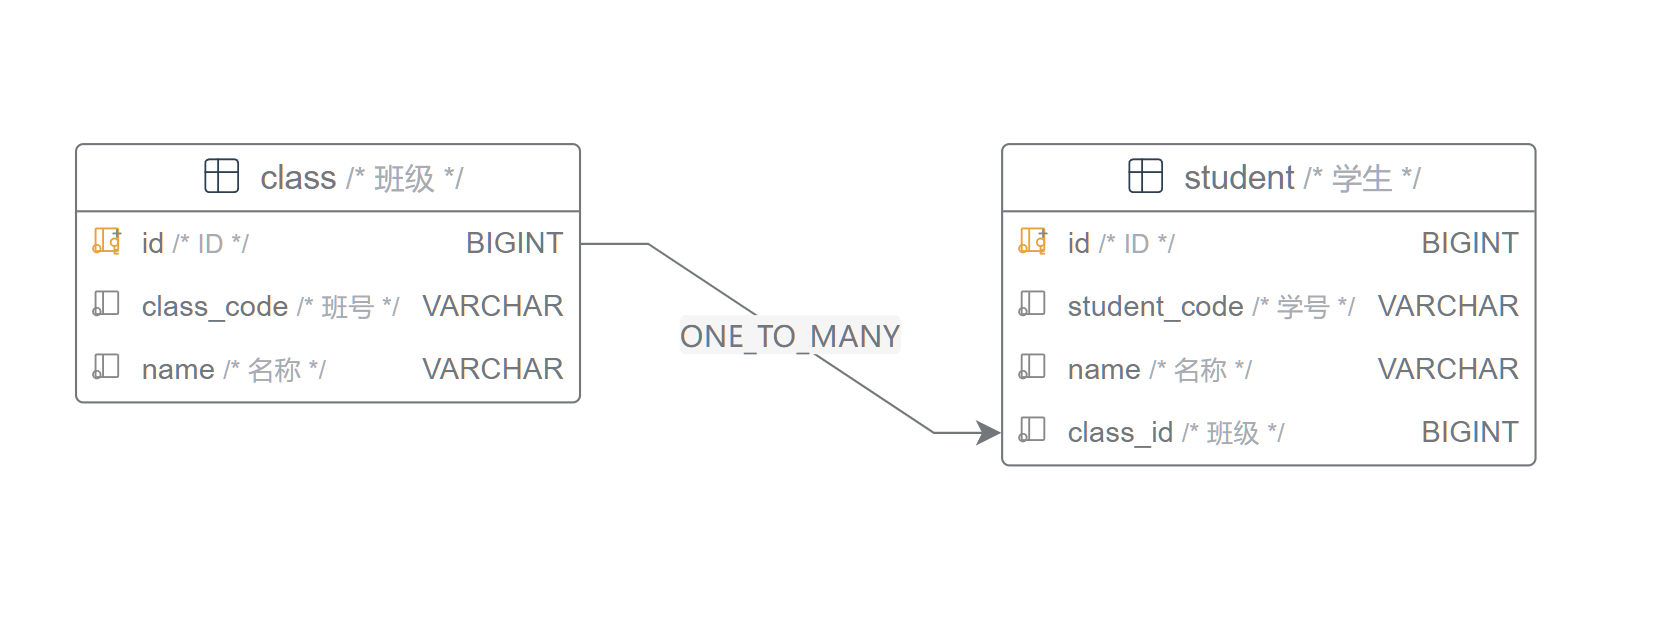
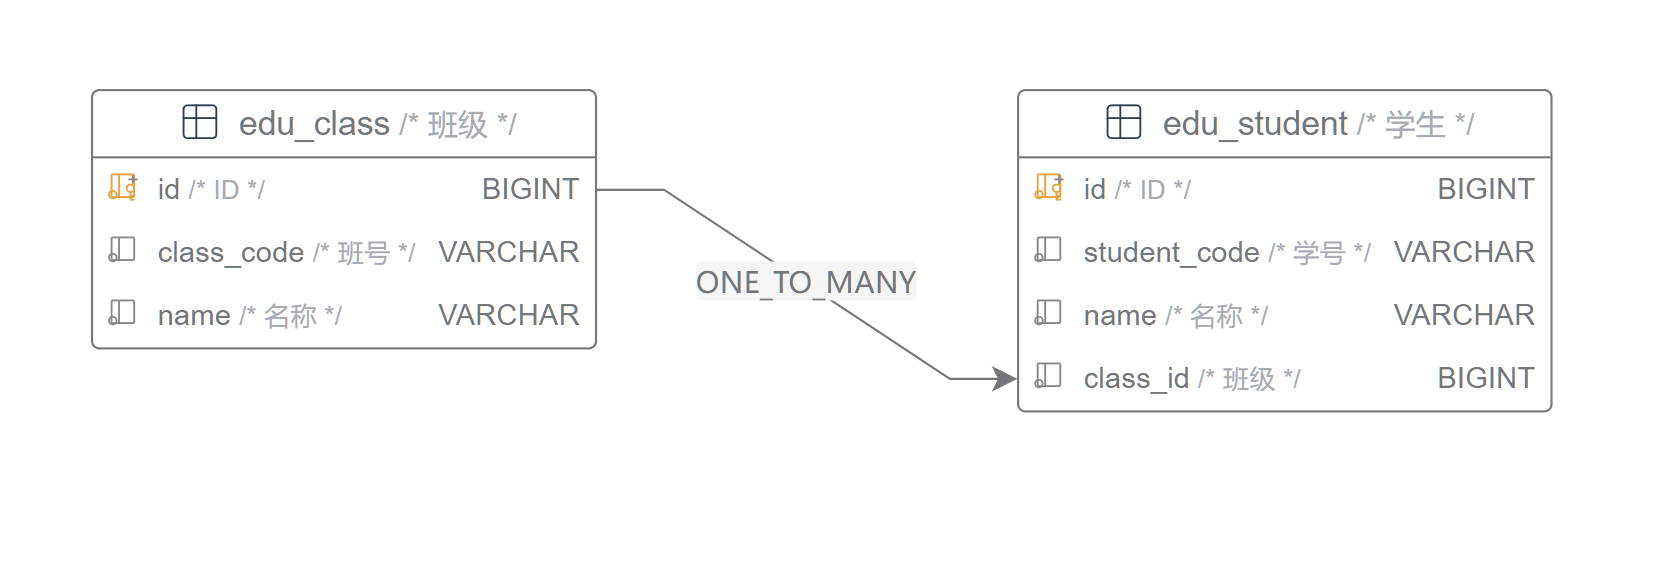
更新图操作，调整 one-to-many 例子中 class 类名问题

diff --git a/docs/.vitepress/config.ts b/docs/.vitepress/config.ts
@@ -3,7 +3,7 @@ export default {
     description: '旨在快捷创建 Jimmer 下实体与关联',
     base: '/jimmer-code-gen-doc/',
     head: [
-        ['link', {rel: 'icon', href: '/logo.svg'}]
+        ['link', {rel: 'icon', href: '/logo.png'}]
     ],
 
     markdown: {
@@ -59,29 +59,27 @@ export default {
             },
             {
                 text: '前端',
-                link: '/frontend/index.html',
                 items: [
                     {
-                        text: '图操作',
+                        text: '图交互',
                         link: '/frontend/graph.html'
-                    },
-                    {
-                        text: '工具栏',
-                        link: '/frontend/tool-bar.html'
                     }
                 ]
             },
             {
                 text: '后端',
-                link: '/backend/index.html',
                 items: [
                     {
-                        text: 'Table Define 生成',
+                        text: 'TableDefine 生成',
                         link: '/backend/generate-table-define.html'
                     },
                     {
                         text: 'Entity 生成',
                         link: '/backend/generate-entity.html'
+                    },
+                    {
+                        text: '其他数据源支持',
+                        link: '/backend/other-datasource.html'
                     },
                 ]
             },

diff --git a/docs/example/many-to-one.md b/docs/example/many-to-one.md
@@ -431,7 +431,7 @@ ALTER TABLE `order_detail` ADD CONSTRAINT `fk_detail_to_order`
         "id": "91ed97fc-b3a6-40c1-99dd-2782f4830099",
         "data": {
           "table": {
-            "name": "student",
+            "name": "edu_student",
             "comment": "学生",
             "remark": "",
             "orderKey": 0,
@@ -505,7 +505,7 @@ ALTER TABLE `order_detail` ADD CONSTRAINT `fk_detail_to_order`
             "indexes": []
           }
         },
-        "zIndex": 10,
+        "zIndex": 24,
         "ports": {
           "groups": {
             "COLUMN_PORT_GROUP": {
@@ -529,7 +529,7 @@ ALTER TABLE `order_detail` ADD CONSTRAINT `fk_detail_to_order`
           "items": [
             {
               "group": "COLUMN_PORT_GROUP",
-              "id": "4259e483-84bd-4dcf-8391-87f949b7cc45",
+              "id": "d01ada82-ed4b-4ce0-b740-9614d281bcce",
               "attrs": {
                 "COLUMN_PORT_SELECTOR": {
                   "width": 255
@@ -538,7 +538,7 @@ ALTER TABLE `order_detail` ADD CONSTRAINT `fk_detail_to_order`
             },
             {
               "group": "COLUMN_PORT_GROUP",
-              "id": "34bd73e0-a2c4-4522-945e-bb79493462db",
+              "id": "620870e7-ea4f-435f-ac22-e03d4371a83c",
               "attrs": {
                 "COLUMN_PORT_SELECTOR": {
                   "width": 255
@@ -547,7 +547,7 @@ ALTER TABLE `order_detail` ADD CONSTRAINT `fk_detail_to_order`
             },
             {
               "group": "COLUMN_PORT_GROUP",
-              "id": "d9412adc-04b7-4e28-92c7-9a0c9bd51967",
+              "id": "60cf11ba-0262-4d63-a572-b321381b4454",
               "attrs": {
                 "COLUMN_PORT_SELECTOR": {
                   "width": 255
@@ -556,7 +556,7 @@ ALTER TABLE `order_detail` ADD CONSTRAINT `fk_detail_to_order`
             },
             {
               "group": "COLUMN_PORT_GROUP",
-              "id": "cf4f295b-2857-4cd7-9629-59ba6b7b06c3",
+              "id": "ea9a90b2-34f9-4854-9e75-3c4bb60a317a",
               "attrs": {
                 "COLUMN_PORT_SELECTOR": {
                   "width": 255
@@ -580,7 +580,7 @@ ALTER TABLE `order_detail` ADD CONSTRAINT `fk_detail_to_order`
         "id": "fab38c0d-a7f0-4e00-81e5-a229ae66735f",
         "data": {
           "table": {
-            "name": "class",
+            "name": "edu_class",
             "comment": "班级",
             "remark": "",
             "orderKey": 0,
@@ -638,7 +638,7 @@ ALTER TABLE `order_detail` ADD CONSTRAINT `fk_detail_to_order`
             "indexes": []
           }
         },
-        "zIndex": 12,
+        "zIndex": 26,
         "ports": {
           "groups": {
             "COLUMN_PORT_GROUP": {
@@ -662,7 +662,7 @@ ALTER TABLE `order_detail` ADD CONSTRAINT `fk_detail_to_order`
           "items": [
             {
               "group": "COLUMN_PORT_GROUP",
-              "id": "264ff059-f696-426b-9956-119c845ad252",
+              "id": "6e4022e9-90aa-455c-b221-0fcc65a7bbbb",
               "attrs": {
                 "COLUMN_PORT_SELECTOR": {
                   "width": 241
@@ -671,7 +671,7 @@ ALTER TABLE `order_detail` ADD CONSTRAINT `fk_detail_to_order`
             },
             {
               "group": "COLUMN_PORT_GROUP",
-              "id": "4481e668-749d-4dd5-af80-d7180864d018",
+              "id": "19ce8120-43d4-4e3d-ba2e-6a96015791df",
               "attrs": {
                 "COLUMN_PORT_SELECTOR": {
                   "width": 241
@@ -680,7 +680,7 @@ ALTER TABLE `order_detail` ADD CONSTRAINT `fk_detail_to_order`
             },
             {
               "group": "COLUMN_PORT_GROUP",
-              "id": "1acfbfdc-0947-41c9-987b-694afdd2f6c2",
+              "id": "130897a5-ef2f-491e-873b-c0726d199b10",
               "attrs": {
                 "COLUMN_PORT_SELECTOR": {
                   "width": 241
@@ -698,12 +698,47 @@ ALTER TABLE `order_detail` ADD CONSTRAINT `fk_detail_to_order`
             "direction": "H"
           }
         },
-        "id": "4771886e-f2e9-4307-834e-addb4adcd31b",
+        "id": "b728b01d-5615-434f-b309-da31f7e0d49c",
+        "data": {
+          "association": {
+            "associationType": "ONE_TO_MANY",
+            "fake": false,
+            "name": "fk_student_to_class",
+            "sourceTable": {
+              "name": "edu_class",
+              "comment": "班级"
+            },
+            "targetTable": {
+              "name": "edu_student",
+              "comment": "学生"
+            },
+            "columnReferences": [
+              {
+                "sourceColumn": {
+                  "name": "id",
+                  "comment": "ID",
+                  "type": "BIGINT",
+                  "typeCode": -5
+                },
+                "targetColumn": {
+                  "name": "class_id",
+                  "comment": "班级",
+                  "type": "BIGINT",
+                  "typeCode": -5
+                }
+              }
+            ]
+          }
+        },
         "source": {
           "cell": "fab38c0d-a7f0-4e00-81e5-a229ae66735f",
-          "port": "264ff059-f696-426b-9956-119c845ad252"
+          "port": "6e4022e9-90aa-455c-b221-0fcc65a7bbbb"
         },
-        "zIndex": 13,
+        "target": {
+          "cell": "91ed97fc-b3a6-40c1-99dd-2782f4830099",
+          "port": "ea9a90b2-34f9-4854-9e75-3c4bb60a317a"
+        },
+        "zIndex": 27,
         "labels": [
           {
             "markup": [
@@ -728,47 +763,12 @@ ALTER TABLE `order_detail` ADD CONSTRAINT `fk_detail_to_order`
               }
             }
           }
-        ],
-        "data": {
-          "association": {
-            "associationType": "ONE_TO_MANY",
-            "fake": false,
-            "name": "fk_class_to_student",
-            "sourceTable": {
-              "name": "class",
-              "comment": "班级"
-            },
-            "targetTable": {
-              "name": "student",
-              "comment": "学生"
-            },
-            "columnReferences": [
-              {
-                "sourceColumn": {
-                  "name": "id",
-                  "comment": "ID",
-                  "type": "BIGINT",
-                  "typeCode": -5
-                },
-                "targetColumn": {
-                  "name": "class_id",
-                  "comment": "班级",
-                  "type": "BIGINT",
-                  "typeCode": -5
-                }
-              }
-            ]
-          }
-        },
-        "target": {
-          "cell": "91ed97fc-b3a6-40c1-99dd-2782f4830099",
-          "port": "cf4f295b-2857-4cd7-9629-59ba6b7b06c3"
-        }
+        ]
       }
     ]
   },
   "zoom": 1.05,
-  "transform": "matrix(1.05,0,0,1.05,-42.81369800328844,-16.9742377532894)"
+  "transform": "matrix(1.05,0,0,1.05,-42.813726916255405,-16.9742578540193)"
 }
 ```
 </details>
@@ -776,9 +776,9 @@ ALTER TABLE `order_detail` ADD CONSTRAINT `fk_detail_to_order`
 此时关联类型为一对多，但是本质还是多对一映射，因此生成的外键为 student 指向 class：
 
 ```sql
-ALTER TABLE `student` ADD CONSTRAINT `fk_class_to_student` 
+ALTER TABLE `edu_student` ADD CONSTRAINT `fk_student_to_class` 
     FOREIGN KEY (`class_id`)
-  REFERENCES `class` (`id`)
+  REFERENCES `edu_class` (`id`)
   ON DELETE CASCADE ON UPDATE RESTRICT;
 ```
 
@@ -788,8 +788,8 @@ ALTER TABLE `student` ADD CONSTRAINT `fk_class_to_student`
 /**
  * 学生
  */
-@OneToMany(mappedBy = "class")
-val students: List<Student>
+@OneToMany(mappedBy = "eduClass")
+val eduStudents: List<EduStudent>
 ```
 ```kotlin
 /**
@@ -800,7 +800,7 @@ val students: List<Student>
     name = "id",
     referencedColumnName = "class_id"
 )
-val class: Class
+val eduClass: EduClass
 ```
 
 

diff --git a/docs/frontend/graph.md b/docs/frontend/graph.md
@@ -1,0 +1,112 @@
+# 图交互
+
+## 核心代码索引
+
+目前图交互的代码相对分散，主要由以下部分组成：
+
+- [GraphEditor](https://github.com/pot-mot/jimmer-code-gen-vue3/tree/multi_column_ref/src/components/business/graphEditor)：
+    基础图编辑代码。
+- [ModelGraphEditor](https://github.com/pot-mot/jimmer-code-gen-vue3/tree/multi_column_ref/src/components/business/modelGraphEditor)：
+    模型图编辑器代码，实质是继承前者做出的模型编辑扩展。
+- [Graph.vue](https://github.com/pot-mot/jimmer-code-gen-vue3/blob/multi_column_ref/src/components/pages/ModelEditor/graph/Graph.vue)：
+    核心组件，同时是页面的组成部分，所以并不在 business 下而是直接归到的 page 中。
+- [ModelEditorStore.ts](https://github.com/pot-mot/jimmer-code-gen-vue3/blob/multi_column_ref/src/components/pages/ModelEditor/store/ModelEditorStore.ts)：
+    前者的状态管理，因为涉及统合多个组件以及外部数据导入，所以单独抽离。采用 store 意味着目标是单例，但实际上把 setup 抽出来作为 Hook 也可以是多例的，只是目前没这个需要。
+    内部很大程度上依赖了基础图编辑中的[入口文件](https://github.com/pot-mot/jimmer-code-gen-vue3/blob/multi_column_ref/src/components/business/graphEditor/index.ts)。
+
+## 响应式数据
+
+[reactiveState.ts](https://github.com/pot-mot/jimmer-code-gen-vue3/blob/multi_column_ref/src/components/business/graphEditor/common/reactiveState.ts)
+
+由于 AntV/X6 Graph 中的数据不具备响应式，导致在 Vue 中的开发体检不佳，因此补充了上面这个在图创建时监听各种事件，以达到让基本数据为响应式的 Hook。
+
+## 撤回重做
+
+[useHistory.ts](https://github.com/pot-mot/jimmer-code-gen-vue3/blob/multi_column_ref/src/components/business/graphEditor/history/useHistory.ts)
+
+快捷键是 【Ctrl + z】（撤回）、【Ctrl + Shift + Z】（重做）。
+
+因为项目内外部影响数据的行为较多，历史记录不可忽略太多信息，因此项目内基本采用 history batch 相关操作把大量变更压缩进一次行为。
+
+## 复制粘贴
+
+[clipBoard.ts](https://github.com/pot-mot/jimmer-code-gen-vue3/blob/multi_column_ref/src/components/business/modelGraphEditor/clipBoard.ts)
+
+快捷键自然是熟悉的 【Ctrl + c】（复制）、【Ctrl + v】（粘贴）、【Ctrl + x】（剪切）。
+
+目前模型设计器支持粘贴两种数据:
+
+```typescript
+{
+    tables: Array<GenTableModelInput> 
+    associations: Array<GenAssociationModelInput>
+}
+```
+
+```typescript
+{
+    cells: Array<Cell>
+    zoom: number
+    transform: string | null
+}
+```
+
+前者同时也是复制黏贴表与关联时获取到的数据格式，后者则是 GraphData.json 的标准类型声明。
+
+:::warning
+如果在其他会话框中执行复制黏贴却意外触发了模型设计器里的复制黏贴操作，原因应该是鼠标不小心移动到画布上了。
+
+目前这不可避免但也没有较好解决办法，因为 graph.container 本身是没法触发 keyboard 的，这些事件只能委托到 documentElement 上进行。因此判断只能用 mouseenter、mouseleave 去维护状态。
+
+如果有好的办法，欢迎 PR。
+:::
+
+## 多选、框选与移动
+
+[useSelection.ts](https://github.com/pot-mot/jimmer-code-gen-vue3/blob/multi_column_ref/src/components/business/graphEditor/selection/useSelection.ts)
+
+可以使用左键进行批量框选，快捷键是 【Ctrl + a】（全选）、【Ctrl + Delete】（删除）、方向键移动。
+
+:::warning
+目前框选是基于 AntV/X6 Selection 实现的，边的框选判断标准是基于矩形，所以存在误选的可能，此处需要留心。
+:::
+
+## 布局
+
+[layoutByLevel.ts](https://github.com/pot-mot/jimmer-code-gen-vue3/blob/multi_column_ref/src/components/business/graphEditor/layout/layoutByLevel.ts)
+
+目前的布局还是比较简陋的，只是按照基本序遍历排出层级，目标只是**尽可能表达出表间依赖关系**。
+
+（以及不用 AntV 官方自带的几种布局的主要原因是表的尺寸是变动的，没有找到比较好的适配方案）
+
+:::warning
+### 导入时的延迟
+
+[ModelEditorStore.ts](https://github.com/pot-mot/jimmer-code-gen-vue3/blob/multi_column_ref/src/components/pages/ModelEditor/store/ModelEditorStore.ts)，
+
+目前在导入超过一张表时都会触发 layoutAndFit 这个操作，但节点与关联创建会消耗无法预估的时间。
+
+以下是目前的实现，是固定设置了 200 ms 的延迟，仅是目前的一种妥协，未来将寻求更好的解决办法。
+
+同上，如果有好的办法，欢迎 PR。
+
+```typescript
+const importTableIntoGraph = async (tables: GenTableColumnsView[]) => {
+    const graph = _graph()
+
+    const {nodes, edges} = await loadByTableViews(graph, tables)
+
+    await nextTick()
+
+    setTimeout(() => {
+        if (nodes.length == 1) {
+            commonOperations.focus(nodes[0])
+        } else {
+            graph.resetSelection([...nodes, ...edges])
+            commonOperations.layoutAndFit()
+        }
+    }, 200)
+}
+```
+:::
+
